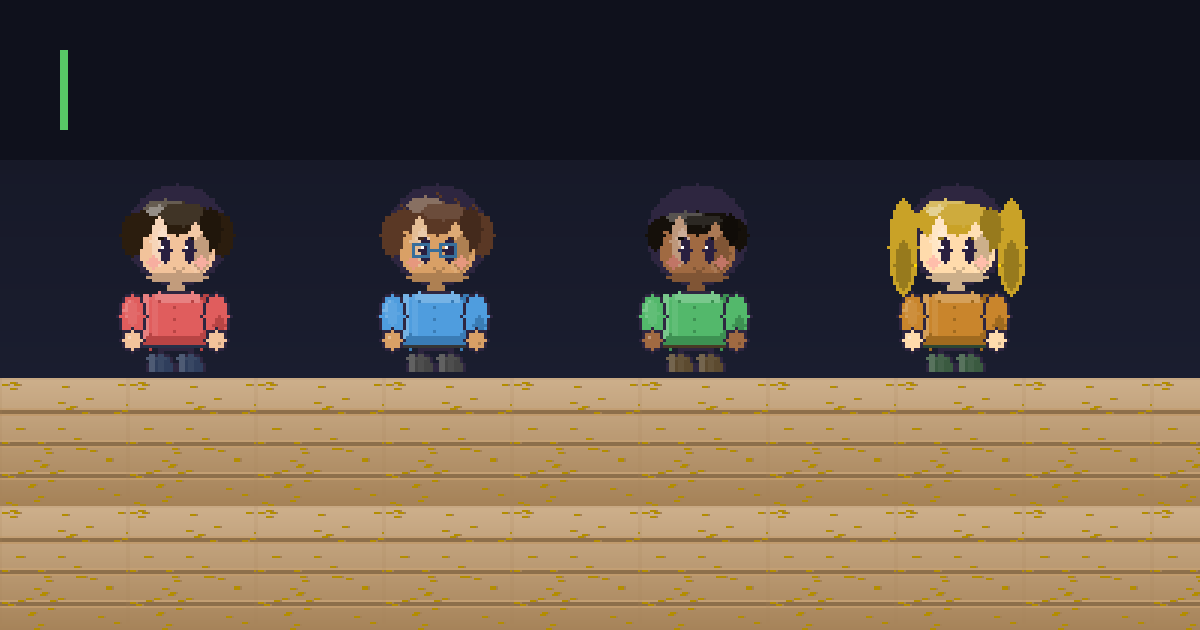
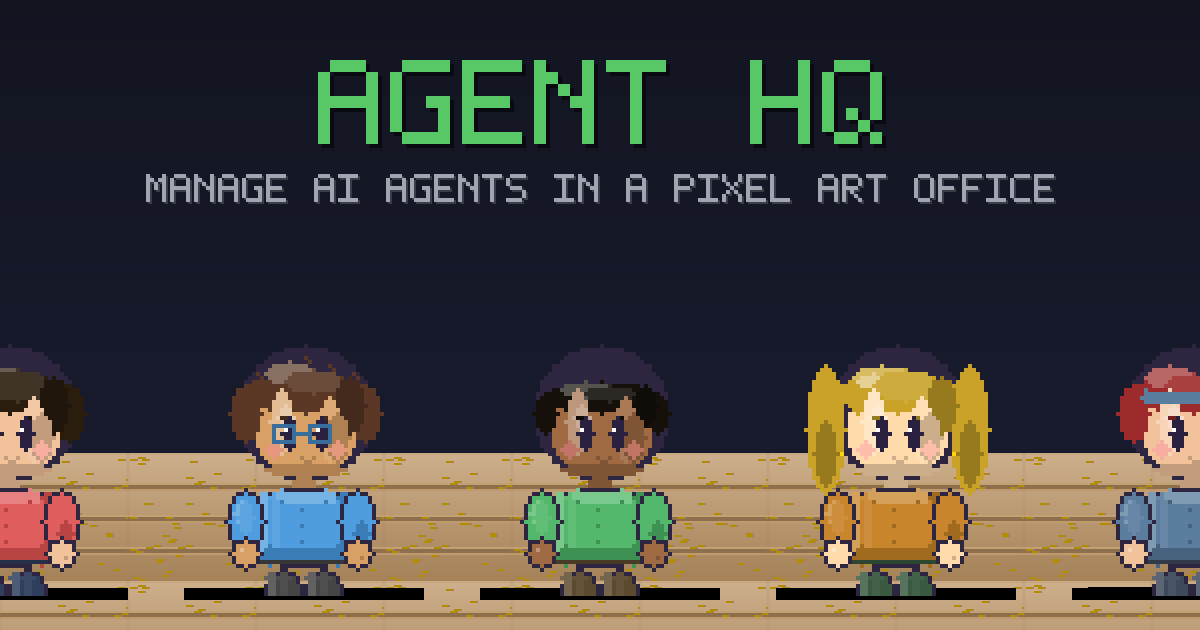
Redesign OG image: pixel-font AGENT HQ title, subtitle, 5 character sprites with shadows

diff --git a/scripts/generate-og-image.ts b/scripts/generate-og-image.ts
@@ -1,6 +1,7 @@
 /**
  * Generates an Open Graph preview image (1200×630) for social media link previews.
- * Composites the office tileset as a background with character sprites on top.
+ * Composites the office tileset as a background with character sprites and
+ * a pixel-font "AGENT HQ" title.
  *
  * Run: pnpm exec tsx scripts/generate-og-image.ts
  */
@@ -53,15 +54,72 @@ function fillRect(img: PNG.PNG, x: number, y: number, w: number, h: number, r: n
   }
 }
 
-// Create canvas
+// ── 5×7 pixel bitmap font ─────────────────────────────────────────────────
+// Each letter is 5 wide, 7 tall. 1 = filled, 0 = empty.
+const FONT: Record<string, string[]> = {
+  A: ["01110", "10001", "10001", "11111", "10001", "10001", "10001"],
+  B: ["11110", "10001", "10001", "11110", "10001", "10001", "11110"],
+  C: ["01111", "10000", "10000", "10000", "10000", "10000", "01111"],
+  D: ["11110", "10001", "10001", "10001", "10001", "10001", "11110"],
+  E: ["11111", "10000", "10000", "11110", "10000", "10000", "11111"],
+  F: ["11111", "10000", "10000", "11110", "10000", "10000", "10000"],
+  G: ["01111", "10000", "10000", "10011", "10001", "10001", "01111"],
+  H: ["10001", "10001", "10001", "11111", "10001", "10001", "10001"],
+  I: ["11111", "00100", "00100", "00100", "00100", "00100", "11111"],
+  J: ["00111", "00010", "00010", "00010", "00010", "10010", "01100"],
+  K: ["10001", "10010", "10100", "11000", "10100", "10010", "10001"],
+  L: ["10000", "10000", "10000", "10000", "10000", "10000", "11111"],
+  M: ["10001", "11011", "10101", "10101", "10001", "10001", "10001"],
+  N: ["10001", "11001", "10101", "10011", "10001", "10001", "10001"],
+  O: ["01110", "10001", "10001", "10001", "10001", "10001", "01110"],
+  P: ["11110", "10001", "10001", "11110", "10000", "10000", "10000"],
+  Q: ["01110", "10001", "10001", "10001", "10101", "10010", "01101"],
+  R: ["11110", "10001", "10001", "11110", "10100", "10010", "10001"],
+  S: ["01111", "10000", "10000", "01110", "00001", "00001", "11110"],
+  T: ["11111", "00100", "00100", "00100", "00100", "00100", "00100"],
+  U: ["10001", "10001", "10001", "10001", "10001", "10001", "01110"],
+  V: ["10001", "10001", "10001", "10001", "10001", "01010", "00100"],
+  W: ["10001", "10001", "10001", "10101", "10101", "11011", "10001"],
+  X: ["10001", "10001", "01010", "00100", "01010", "10001", "10001"],
+  Y: ["10001", "10001", "10001", "01010", "00100", "00100", "00100"],
+  Z: ["11111", "00001", "00010", "00100", "01000", "10000", "11111"],
+  " ": ["00000", "00000", "00000", "00000", "00000", "00000", "00000"],
+};
+
+function drawText(img: PNG.PNG, text: string, startX: number, startY: number, scale: number, r: number, g: number, b: number): number {
+  const CHAR_W = 5;
+  const CHAR_H = 7;
+  const GAP = 1; // 1 empty column between letters
+  let x = startX;
+  for (const ch of text.toUpperCase()) {
+    const glyph = FONT[ch] ?? FONT[" "];
+    for (let gy = 0; gy < CHAR_H; gy++) {
+      for (let gx = 0; gx < CHAR_W; gx++) {
+        if (glyph[gy][gx] === "1") {
+          fillRect(img, x + gx * scale, startY + gy * scale, scale, scale, r, g, b);
+        }
+      }
+    }
+    x += (CHAR_W + GAP) * scale;
+  }
+  return x;
+}
+
+function textWidth(text: string, scale: number): number {
+  const CHAR_W = 5;
+  const GAP = 1;
+  return text.length * (CHAR_W + GAP) * scale - GAP * scale;
+}
+
+// ── Create canvas ─────────────────────────────────────────────────────────
 const img = new PNG.PNG({ width: W, height: H });
 
-// Dark gradient background
+// Dark gradient background — deep blue-purple
 for (let y = 0; y < H; y++) {
   const t = y / H;
-  const r = Math.round(20 + t * 10);
-  const g = Math.round(22 + t * 12);
-  const b = Math.round(35 + t * 20);
+  const r = Math.round(18 + t * 8);
+  const g = Math.round(20 + t * 10);
+  const b = Math.round(32 + t * 18);
   for (let x = 0; x < W; x++) {
     const i = (y * W + x) * 4;
     img.data[i] = r;
@@ -71,14 +129,13 @@ for (let y = 0; y < H; y++) {
   }
 }
 
-// Tile the office floor across the bottom 40% as a subtle background
+// Tile the office floor across the bottom third as a subtle background
 const tileset = loadPNG(join(assetsDir, "tilesets", "office.png"));
 const TILE = 64;
-const SCALE = 2;
-const floorY = Math.floor(H * 0.6);
-for (let y = floorY; y < H; y += TILE * SCALE) {
-  for (let x = 0; x < W; x += TILE * SCALE) {
-    // Use tile index 1 (floor tile) from the tileset — top-left is index 0
+const FLOOR_SCALE = 2;
+const floorY = Math.floor(H * 0.72);
+for (let y = floorY; y < H; y += TILE * FLOOR_SCALE) {
+  for (let x = 0; x < W; x += TILE * FLOOR_SCALE) {
     const tileX = (1 % (tileset.width / TILE)) * TILE;
     const tileY = Math.floor(1 / (tileset.width / TILE)) * TILE;
     const tile = new PNG.PNG({ width: TILE, height: TILE });
@@ -92,16 +149,37 @@ for (let y = floorY; y < H; y += TILE * SCALE) {
         tile.data[di + 3] = tileset.data[si + 3];
       }
     }
-    blend(img, tile, x, y, SCALE);
+    blend(img, tile, x, y, FLOOR_SCALE);
   }
 }
 
-// Place 4 character sprites across the image
-const charFiles = ["char-0.png", "char-1.png", "char-2.png", "char-3.png"];
-const charScale = 3;
-const charSpacing = 260;
-const charStartX = 80;
-const charY = 180;
+// ── "AGENT HQ" title in pixel font ────────────────────────────────────────
+const title = "AGENT HQ";
+const titleScale = 12;
+const titleW = textWidth(title, titleScale);
+const titleX = Math.floor((W - titleW) / 2);
+const titleY = 60;
+
+// Shadow (offset by a few px, darker)
+drawText(img, title, titleX + 4, titleY + 4, titleScale, 8, 10, 16);
+// Main text — bright green to match the game's accent color
+drawText(img, title, titleX, titleY, titleScale, 88, 200, 102);
+
+// ── Subtitle ──────────────────────────────────────────────────────────────
+const subtitle = "MANAGE AI AGENTS IN A PIXEL-ART OFFICE";
+const subScale = 4;
+const subW = textWidth(subtitle, subScale);
+const subX = Math.floor((W - subW) / 2);
+drawText(img, subtitle, subX + 2, titleY + 7 * titleScale + 30 + 2, subScale, 60, 60, 70);
+drawText(img, subtitle, subX, titleY + 7 * titleScale + 30, subScale, 160, 165, 180);
+
+// ── Character sprites along the bottom ────────────────────────────────────
+const charFiles = ["char-0.png", "char-1.png", "char-2.png", "char-3.png", "char-4.png"];
+const charScale = 4;
+const charSpacing = 200;
+const charTotalW = charFiles.length * charSpacing - (charSpacing - 64 * charScale);
+const charStartX = Math.floor((W - (charFiles.length * 64 * charScale + (charFiles.length - 1) * 40)) / 2);
+const charY = 340;
 for (let i = 0; i < charFiles.length; i++) {
   const char = loadPNG(join(assetsDir, "characters", charFiles[i]));
   // Extract the first frame (top-left 64×64 region of the spritesheet)
@@ -116,18 +194,13 @@ for (let i = 0; i < charFiles.length; i++) {
       frame.data[di + 3] = char.data[si + 3];
     }
   }
-  blend(img, frame, charStartX + i * charSpacing, charY, charScale);
+  const px = charStartX + i * (64 * charScale + 40);
+  // Shadow under each character
+  fillRect(img, px + 8, charY + 64 * charScale - 8, 64 * charScale - 16, 12, 0, 0, 0);
+  blend(img, frame, px, charY, charScale);
 }
 
-// Dark overlay strip for text area
-fillRect(img, 0, 0, W, 160, 15, 17, 28);
-
-// Write "AGENT HQ" as pixel blocks (simple bitmap text)
-// We'll draw a simple styled bar instead since we don't have a font renderer
-const accentR = 88, accentG = 200, accentB = 102;
-fillRect(img, 60, 50, 8, 80, accentR, accentG, accentB); // left accent bar
-
-// Output
+// ── Output ────────────────────────────────────────────────────────────────
 const outPath = join(root, "client", "public", "og-image.png");
 const buf = PNG.PNG.sync.write(img);
 writeFileSync(outPath, buf);
